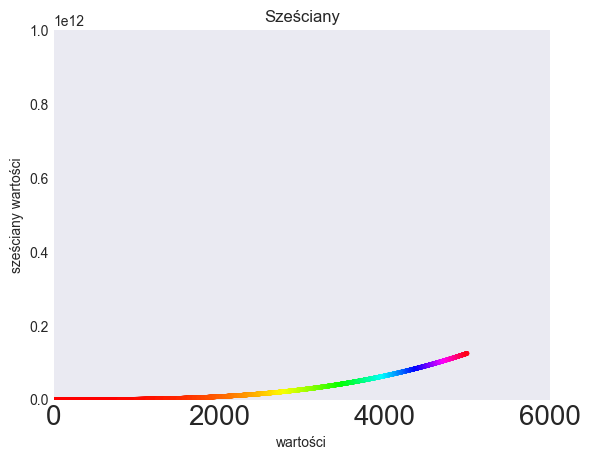
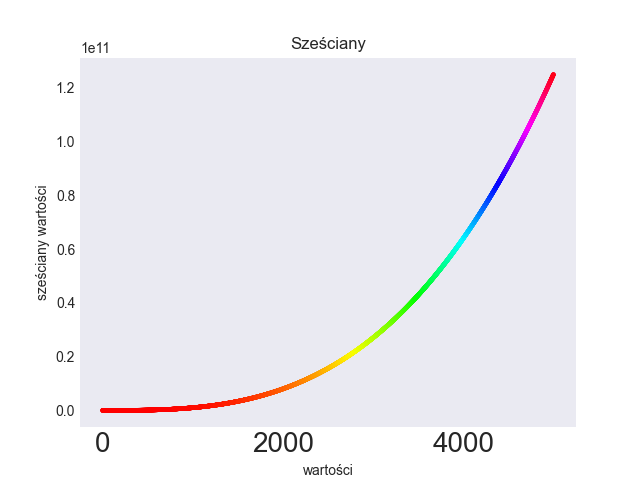
wygenerowanie wykresu sześcianów

diff --git a/scatter_cubes.py b/scatter_cubes.py
@@ -7,11 +7,12 @@ plt.style.use('seaborn-dark')
 fig, ax = plt.subplots()
 
 ax.scatter(x_values,y_values,s=5,c=y_values,cmap=plt.cm.hsv)
-ax.axis( (0,6001,0,1000_0000_000_00) )
+#ax.axis( (0,5001,0,1000_0000_000_00) )
 ax.set_title('Sześciany')
 ax.set_xlabel('wartości')
 ax.set_ylabel('sześciany wartości')
 ax.tick_params(axis='x',labelsize=20)
 
 
-plt.savefig('szesciany.png',bbox_inches='tight')
+#plt.savefig('szesciany.png',bbox_inches='tight')
+plt.show()

diff --git a/die2_visual.py b/die2_visual.py
@@ -23,4 +23,4 @@ my_layout = Layout(
 				yaxis={'title':'Częstość wyniku'}
 			)
 
-offline.plot({'data':data, 'layout':my_layout},filename='2xd6.html')
+offline.plot({'data':data, 'layout':my_layout},filename='d6_d10.html')
